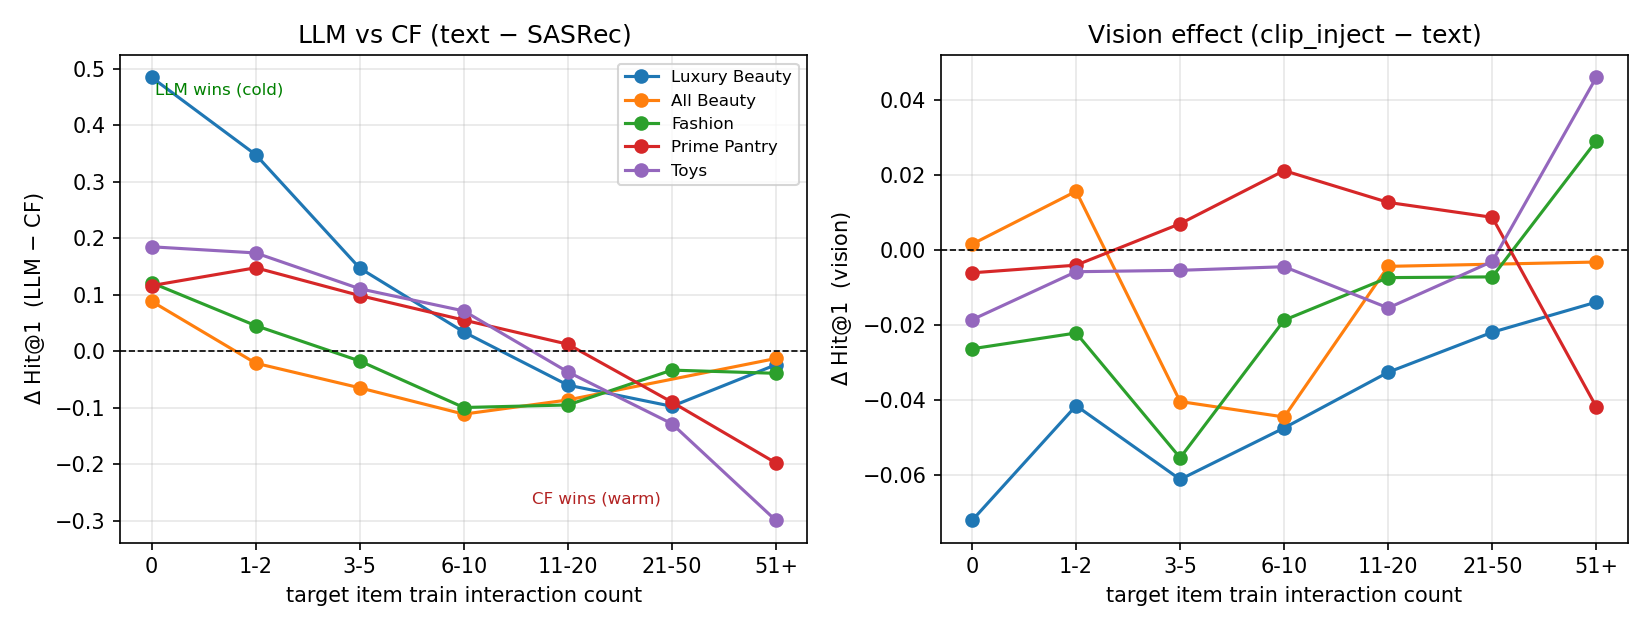
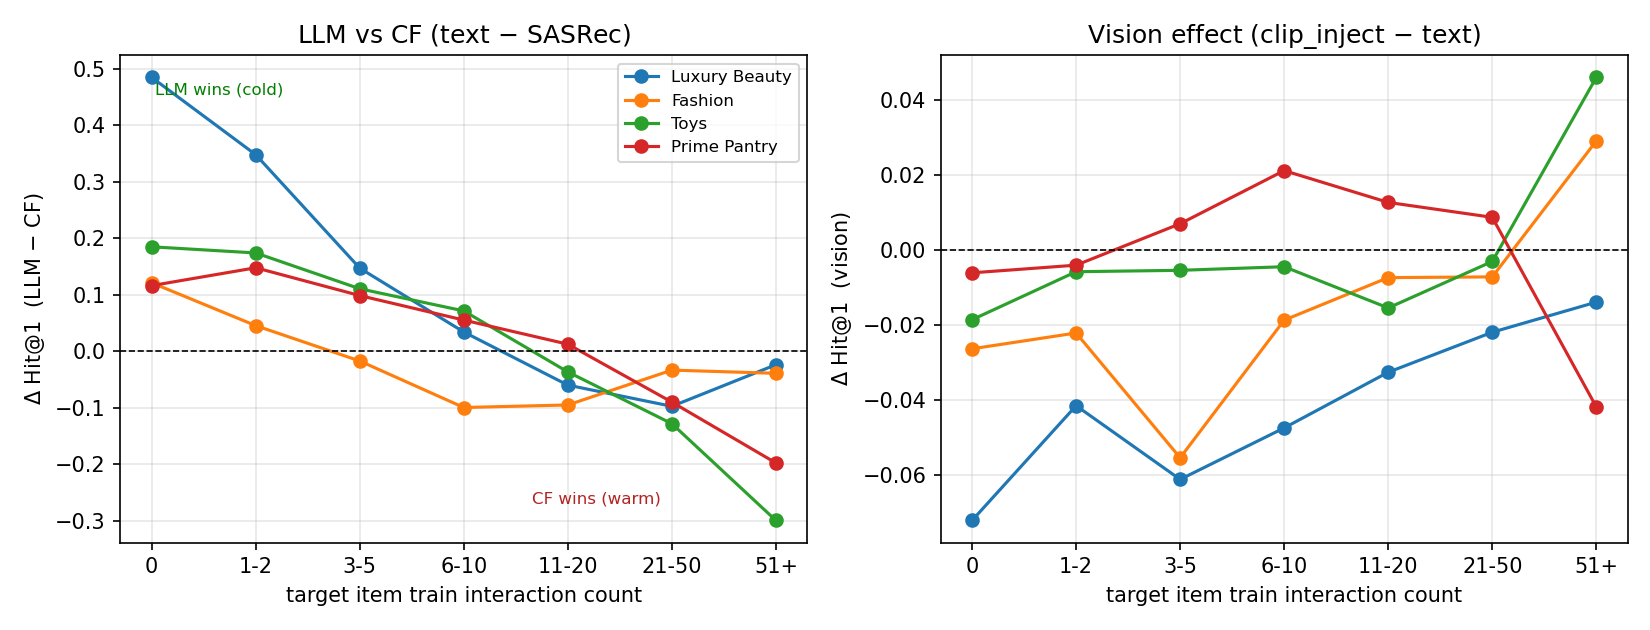
results+figures: full-metric fusion table in RESULTS; regenerate figures on the 4-set
- RESULTS.md fusion table expanded to the FULL metric set (Hit@1/5/10 + NDCG@5/10) for all 4
  datasets, matching FINDING_4.md. Bolding = best *deployable* method: pop-gate on the three
  LLM-competitive datasets; on CF-dominant Prime Pantry, CF is bolded at Hit@5/10 (it wins there),
  pop-gate at Hit@1/NDCG. Generated programmatically from the shared-candidate scores (no
  hand-transcription).
- figures/crossover_sparsity.{pdf,png}: regenerated on the current 4 datasets (Luxury, Fashion,
  Toys, Prime Pantry) — the CURRENT paper's Figure 1 (crossover curves + crossover-vs-density
  scatter, r=0.98). Prime Pantry anchors the high-density end on the y=x line.
- scripts/plot_crossover.py + figures/crossover.{pdf,png}: this is a VISION-paper figure (its right
  panel is the vision null) — dropped All Beauty, marked out-of-scope for the current paper
  (see FINDING_3.md), regenerated so it is no longer stale.

diff --git a/scripts/plot_crossover.py b/scripts/plot_crossover.py
@@ -1,8 +1,12 @@
 """
-Publication figure: the CF<->LLM crossover. Left panel: Hit@1 advantage of the LLM
-(text) over CF (SASRec) vs the target item's TRAIN interaction count, one line per
-dataset -> monotonic decay crossing zero (LLM wins cold, CF wins warm). Right panel:
-vision effect (clip_inject - text) -> flat near zero (vision null). Ranking eval.
+⛔ VISION-PAPER figure (out of scope for the current CF<->LLM paper — see FINDING_3.md).
+Its right panel is the vision-null result. The CURRENT paper's crossover figure is
+figures/crossover_sparsity.{pdf,png} (crossover curves + density scatter), from
+scripts/plot_crossover_sparsity.py.
+
+Left panel: Hit@1 advantage of the LLM (text) over CF (SASRec) vs the target item's TRAIN
+interaction count -> monotone decay crossing zero. Right panel: vision effect
+(clip_inject - text) -> flat near zero (vision null). Ranking eval. Current 4 datasets.
 
 Usage: python scripts/plot_crossover.py  ->  figures/crossover.{pdf,png}
 """
@@ -16,9 +20,8 @@ sys.path.insert(0, str(Path(__file__).resolve().parents[1]))
 from clam_rec.eval.metrics import record_hit_at_1
 
 FUZZY = 0.90
-DATASETS = [("Luxury_Beauty", "Luxury Beauty"), ("All_Beauty", "All Beauty"),
-            ("AMAZON_FASHION", "Fashion"), ("Prime_Pantry", "Prime Pantry"),
-            ("Toys_and_Games_sub", "Toys")]
+DATASETS = [("Luxury_Beauty", "Luxury Beauty"), ("AMAZON_FASHION", "Fashion"),
+            ("Toys_and_Games_sub", "Toys"), ("Prime_Pantry", "Prime Pantry")]  # All Beauty dropped 2026-08-04
 BINS = [(0, 0), (1, 2), (3, 5), (6, 10), (11, 20), (21, 50), (51, 10**9)]
 XLAB = ["0", "1-2", "3-5", "6-10", "11-20", "21-50", "51+"]
 

diff --git a/RESULTS.md b/RESULTS.md
@@ -190,18 +190,30 @@ pure **text**; **RRF** (rank fusion, no popularity); **z-fuse** (equal-weight sc
 `pivot`=dataset mean interactions/item — **deployable**, popularity known at inference); **ORACLE**
 (routes the whole decision by the *target's* popularity — upper bound, not deployable). 1 seed.
 
-| Dataset | metric | CF | text | RRF | z-fuse | **pop-gate** | ORACLE |
-|---------|--------|:--:|:----:|:---:|:------:|:------------:|:------:|
+Full metrics (bold = best **deployable** method, i.e. excluding the oracle upper bound):
+
+| Dataset | metric | CF | text | RRF | z-fuse | pop-gate | ORACLE |
+|---------|--------|:--:|:----:|:---:|:------:|:--------:|:------:|
 | **Luxury** | Hit@1 | 0.501 | 0.600 | 0.539 | 0.575 | **0.622** | 0.627 |
 |            | Hit@5 | 0.709 | 0.756 | 0.744 | 0.748 | **0.801** | 0.816 |
-|            | NDCG@5| 0.612 | 0.682 | 0.646 | 0.667 | **0.718** | 0.728 |
+|            | Hit@10 | 0.805 | 0.850 | 0.888 | 0.857 | **0.884** | 0.896 |
+|            | NDCG@5 | 0.611 | 0.682 | 0.646 | 0.667 | **0.718** | 0.728 |
+|            | NDCG@10 | 0.643 | 0.712 | 0.692 | 0.702 | **0.744** | 0.754 |
 | **Fashion** | Hit@1 | 0.246 | 0.292 | 0.252 | 0.260 | **0.308** | 0.310 |
 |             | Hit@5 | 0.382 | 0.475 | 0.407 | 0.390 | **0.497** | 0.519 |
+|             | Hit@10 | 0.491 | 0.657 | 0.595 | 0.551 | **0.659** | 0.699 |
+|             | NDCG@5 | 0.314 | 0.385 | 0.329 | 0.326 | **0.405** | 0.415 |
+|             | NDCG@10 | 0.349 | 0.443 | 0.389 | 0.377 | **0.457** | 0.473 |
 | **Toys (sub)** | Hit@1 | 0.206 | 0.247 | 0.242 | 0.254 | **0.266** | 0.278 |
-|                | Hit@5 | 0.484 | 0.497 | 0.520 | 0.530 | **0.554** | 0.584 |
+|                | Hit@5 | 0.484 | 0.496 | 0.520 | 0.530 | **0.554** | 0.584 |
+|                | Hit@10 | 0.691 | 0.710 | 0.746 | 0.732 | **0.768** | 0.784 |
+|                | NDCG@5 | 0.347 | 0.372 | 0.382 | 0.394 | **0.414** | 0.433 |
+|                | NDCG@10 | 0.414 | 0.441 | 0.455 | 0.459 | **0.482** | 0.498 |
 | **Prime Pantry** | Hit@1 | 0.254 | 0.220 | 0.251 | 0.276 | **0.286** | 0.292 |
-|                  | Hit@5 | **0.592** | 0.462 | 0.568 | 0.581 | 0.577 | 0.616 |
-|                  | NDCG@5| 0.428 | 0.342 | 0.413 | 0.432 | **0.436** | 0.461 |
+|  (CF-dominant)   | Hit@5 | **0.592** | 0.462 | 0.568 | 0.581 | 0.577 | 0.616 |
+|                  | Hit@10 | **0.787** | 0.678 | 0.784 | 0.775 | 0.759 | 0.783 |
+|                  | NDCG@5 | 0.428 | 0.342 | 0.413 | 0.432 | **0.436** | 0.461 |
+|                  | NDCG@10 | 0.491 | 0.411 | 0.483 | **0.495** | **0.495** | 0.514 |
 
 **pop-gate Δ over best pure model (Hit@1):** Luxury **+0.022**, Fashion **+0.015**, Toys **+0.019**,
 Prime Pantry **+0.032** — **positive on all 4**, ≈ the oracle upper bound. Hit@5/NDCG@5 gains are
